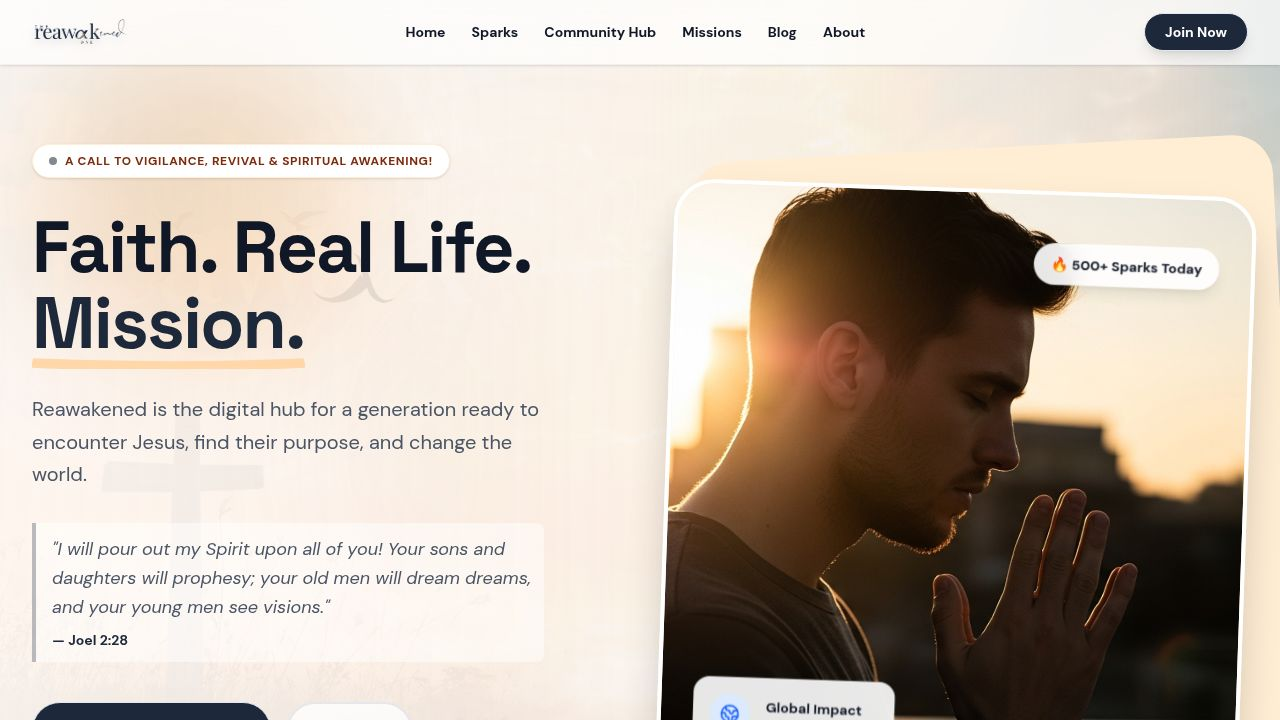
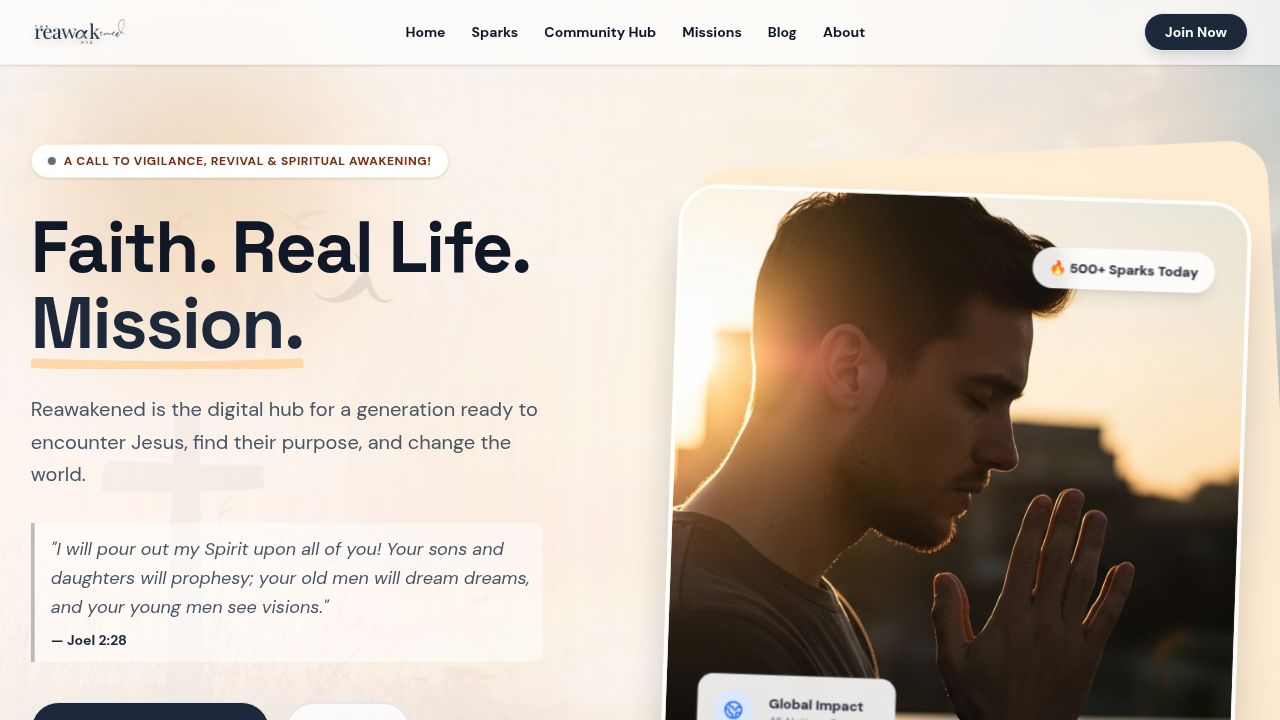
Update navigation and profile page for improved user experience
Removes "Home" from the top navigation bar and implements functional "Sign In" and "Sign Out" buttons on the profile page, utilizing existing authentication logic.

Replit-Commit-Author: Agent
Replit-Commit-Session-Id: a7b65332-5236-4554-a3c6-6972722ae9cd
Replit-Commit-Checkpoint-Type: intermediate_checkpoint
Replit-Commit-Event-Id: 0e281e15-171e-4be1-a866-1e5201dc9856
Replit-Commit-Screenshot-Url: https://storage.googleapis.com/screenshot-production-us-central1/62a174e6-3f1f-4767-a721-073335d16cbb/a7b65332-5236-4554-a3c6-6972722ae9cd/Eg9plHQ
Replit-Helium-Checkpoint-Created: true

diff --git a/client/src/pages/Profile.tsx b/client/src/pages/Profile.tsx
@@ -1,15 +1,23 @@
 import { motion } from "framer-motion";
 import { Navbar } from "@/components/layout/Navbar";
 import { Button } from "@/components/ui/button";
-import { User, Settings, Award, Heart, Globe, Clock, ChevronRight, LogOut, Bell, Shield, LayoutDashboard } from "lucide-react";
+import { User, Settings, Award, Heart, Globe, Clock, ChevronRight, LogOut, Bell, Shield, LayoutDashboard, LogIn } from "lucide-react";
 import { useLocation } from "wouter";
 import { useAuth } from "@/hooks/useAuth";
 
 export default function Profile() {
   const [, navigate] = useLocation();
-  const { user } = useAuth();
+  const { user, isAuthenticated, isLoading } = useAuth();
   
   const isAdmin = user?.role === 'admin' || user?.role === 'super_admin';
+
+  const handleSignIn = () => {
+    window.location.href = "/api/login";
+  };
+
+  const handleSignOut = () => {
+    window.location.href = "/api/logout";
+  };
 
   const stats = [
     { label: "Days Active", value: "12", icon: Clock },
@@ -37,15 +45,24 @@ export default function Profile() {
             animate={{ opacity: 1, y: 0 }}
             className="text-center mb-8"
           >
-            <div className="h-24 w-24 mx-auto rounded-full bg-[#FAF8F5] dark:bg-[#243656] border-4 border-[#D4A574] flex items-center justify-center mb-4 shadow-xl">
-              <User className="h-12 w-12 text-[#D4A574]" />
+            <div className="h-24 w-24 mx-auto rounded-full bg-[#FAF8F5] dark:bg-[#243656] border-4 border-[#D4A574] flex items-center justify-center mb-4 shadow-xl overflow-hidden">
+              {isAuthenticated && user?.profileImageUrl ? (
+                <img src={user.profileImageUrl} alt={user.username || "User"} className="h-full w-full object-cover" />
+              ) : (
+                <User className="h-12 w-12 text-[#D4A574]" />
+              )}
             </div>
             <h1 className="text-2xl font-display font-bold text-gray-900 dark:text-white mb-1">
-              Welcome Back
+              {isAuthenticated ? (user?.firstName || user?.username || "Welcome Back") : "Welcome"}
             </h1>
             <p className="text-gray-600 dark:text-[#7C9A8E]">
-              Sign in to track your journey
+              {isAuthenticated ? (user?.email || "Your spiritual journey awaits") : "Sign in to track your journey"}
             </p>
+            {isAuthenticated && isAdmin && (
+              <span className="inline-block mt-2 px-3 py-1 text-xs font-medium rounded-full bg-purple-100 dark:bg-purple-500/20 text-purple-700 dark:text-purple-300">
+                {user?.role === 'super_admin' ? 'Super Admin' : 'Admin'}
+              </span>
+            )}
           </motion.div>
 
           <motion.div
@@ -101,20 +118,25 @@ export default function Profile() {
             animate={{ opacity: 1, y: 0 }}
             transition={{ delay: 0.2 }}
           >
-            <Button 
-              className="w-full bg-[#D4A574] hover:bg-[#C49464] text-white font-bold py-6 rounded-2xl shadow-lg mb-4"
-              data-testid="button-sign-in"
-            >
-              Sign In
-            </Button>
-            
-            <button 
-              className="w-full flex items-center justify-center gap-2 text-gray-500 dark:text-[#7C9A8E] hover:text-gray-700 dark:hover:text-white py-3 transition-all"
-              data-testid="button-sign-out"
-            >
-              <LogOut className="h-4 w-4" />
-              <span className="text-sm font-medium">Sign Out</span>
-            </button>
+            {!isAuthenticated ? (
+              <Button 
+                onClick={handleSignIn}
+                className="w-full bg-[#D4A574] hover:bg-[#C49464] text-white font-bold py-6 rounded-2xl shadow-lg"
+                data-testid="button-sign-in"
+              >
+                <LogIn className="h-5 w-5 mr-2" />
+                Sign In with Replit
+              </Button>
+            ) : (
+              <button 
+                onClick={handleSignOut}
+                className="w-full flex items-center justify-center gap-2 text-gray-500 dark:text-[#7C9A8E] hover:text-red-500 dark:hover:text-red-400 py-3 transition-all border border-gray-200 dark:border-[#4A7C7C]/30 rounded-2xl"
+                data-testid="button-sign-out"
+              >
+                <LogOut className="h-4 w-4" />
+                <span className="text-sm font-medium">Sign Out</span>
+              </button>
+            )}
           </motion.div>
           
         </div>

diff --git a/client/src/components/layout/Navbar.tsx b/client/src/components/layout/Navbar.tsx
@@ -67,7 +67,6 @@ export function Navbar() {
           
           <div className={`hidden md:block px-4 py-1.5 rounded-full border transition-all duration-300 ${scrolled ? 'bg-white/50 border-gray-200' : 'bg-transparent border-transparent'}`}>
             <div className="flex items-baseline space-x-0.5">
-              <Link href="/"><span className={`${textColor} ${hoverColor} px-3 py-1.5 rounded-full text-sm font-bold transition-all cursor-pointer`} data-testid="nav-home">Home</span></Link>
               {isAuthenticated && (
                 <Link href="/vision">
                   <span className={`${textColor} ${hoverColor} px-3 py-1.5 rounded-full text-sm font-bold transition-all cursor-pointer inline-flex items-center gap-1`} data-testid="nav-vision">
@@ -124,7 +123,6 @@ export function Navbar() {
             className="md:hidden bg-white border-b border-gray-100 shadow-lg"
           >
             <div className="px-4 pt-4 pb-6 space-y-2">
-              <Link href="/"><span className="text-gray-800 hover:text-primary hover:bg-gray-50 block px-3 py-2 rounded-lg text-base font-bold cursor-pointer" data-testid="mobile-nav-home">Home</span></Link>
               {isAuthenticated && (
                 <Link href="/vision">
                   <span className="text-gray-800 hover:text-primary hover:bg-gray-50 px-3 py-2 rounded-lg text-base font-bold cursor-pointer flex items-center gap-2" data-testid="mobile-nav-vision">
